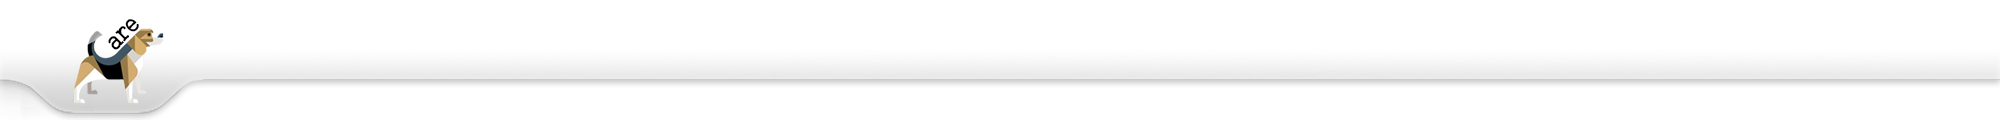
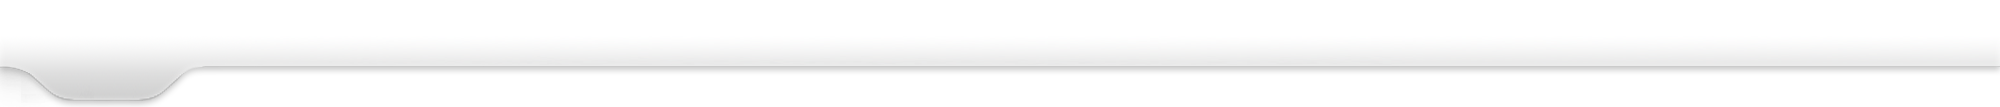
메뉴바 수정

Changed region(s): [[0.0, 0.1682, 1.0, 0.785]]

diff --git a/src/main/webapp/resource/css/layout.css b/src/main/webapp/resource/css/layout.css
@@ -5,7 +5,6 @@
     width: 100%;
     text-align: left;
     background: white;
-    overflow: hidden;
     /* position: static; */
 }
 
@@ -13,12 +12,14 @@
 	position: relative;
     margin: 0px auto;
     width: 100%;
-    height: 80px;
     clear: both;
     z-index: 51;
 }
 
 .header-left {
+	position: absolute;
+	top: 15px;
+	left: 60px;
     margin: 0 auto;
     width: 15%;
     margin-left: 20px;
@@ -27,6 +28,9 @@
 }
 
 .header-right {
+	position: absolute;
+	top: 0;
+	right: 0;
 	margin: 0 auto;
 	margin-right: 40px;
 	width: 20%;
@@ -35,7 +39,8 @@
 }
 
 .header-bottom {
-	position: relative;
+	position: fixed;
+	top: 0;
 	margin: 0px auto;
     width: 100%;
     height: 90px;
@@ -81,10 +86,11 @@
 .menu-container {
 	position: absolute;
 	margin: 0 auto;
-	top: 10;
-	left: 300px;
+	top: 0;
 	width: 100%;
     height: 100%;
+    line-height: 65px;
+    vertical-align: middle;
     float: left;
 }
 
@@ -106,14 +112,16 @@
 
 ul.navi li { 
   display: inline;
+  border-right: 1px dotted #ccc;
 }
 
 ul.navi li a {
   /* float: inherit; */
-  line-height: 60px;
   text-decoration: none;
   margin: 0 auto;
-  padding: 0 30px;
+  padding: 0 25px; 
+  font-weight: bold;
+  opacity: 0.8;
 }
 
 ul.navi .current a, ul.navi li:hover > a {
